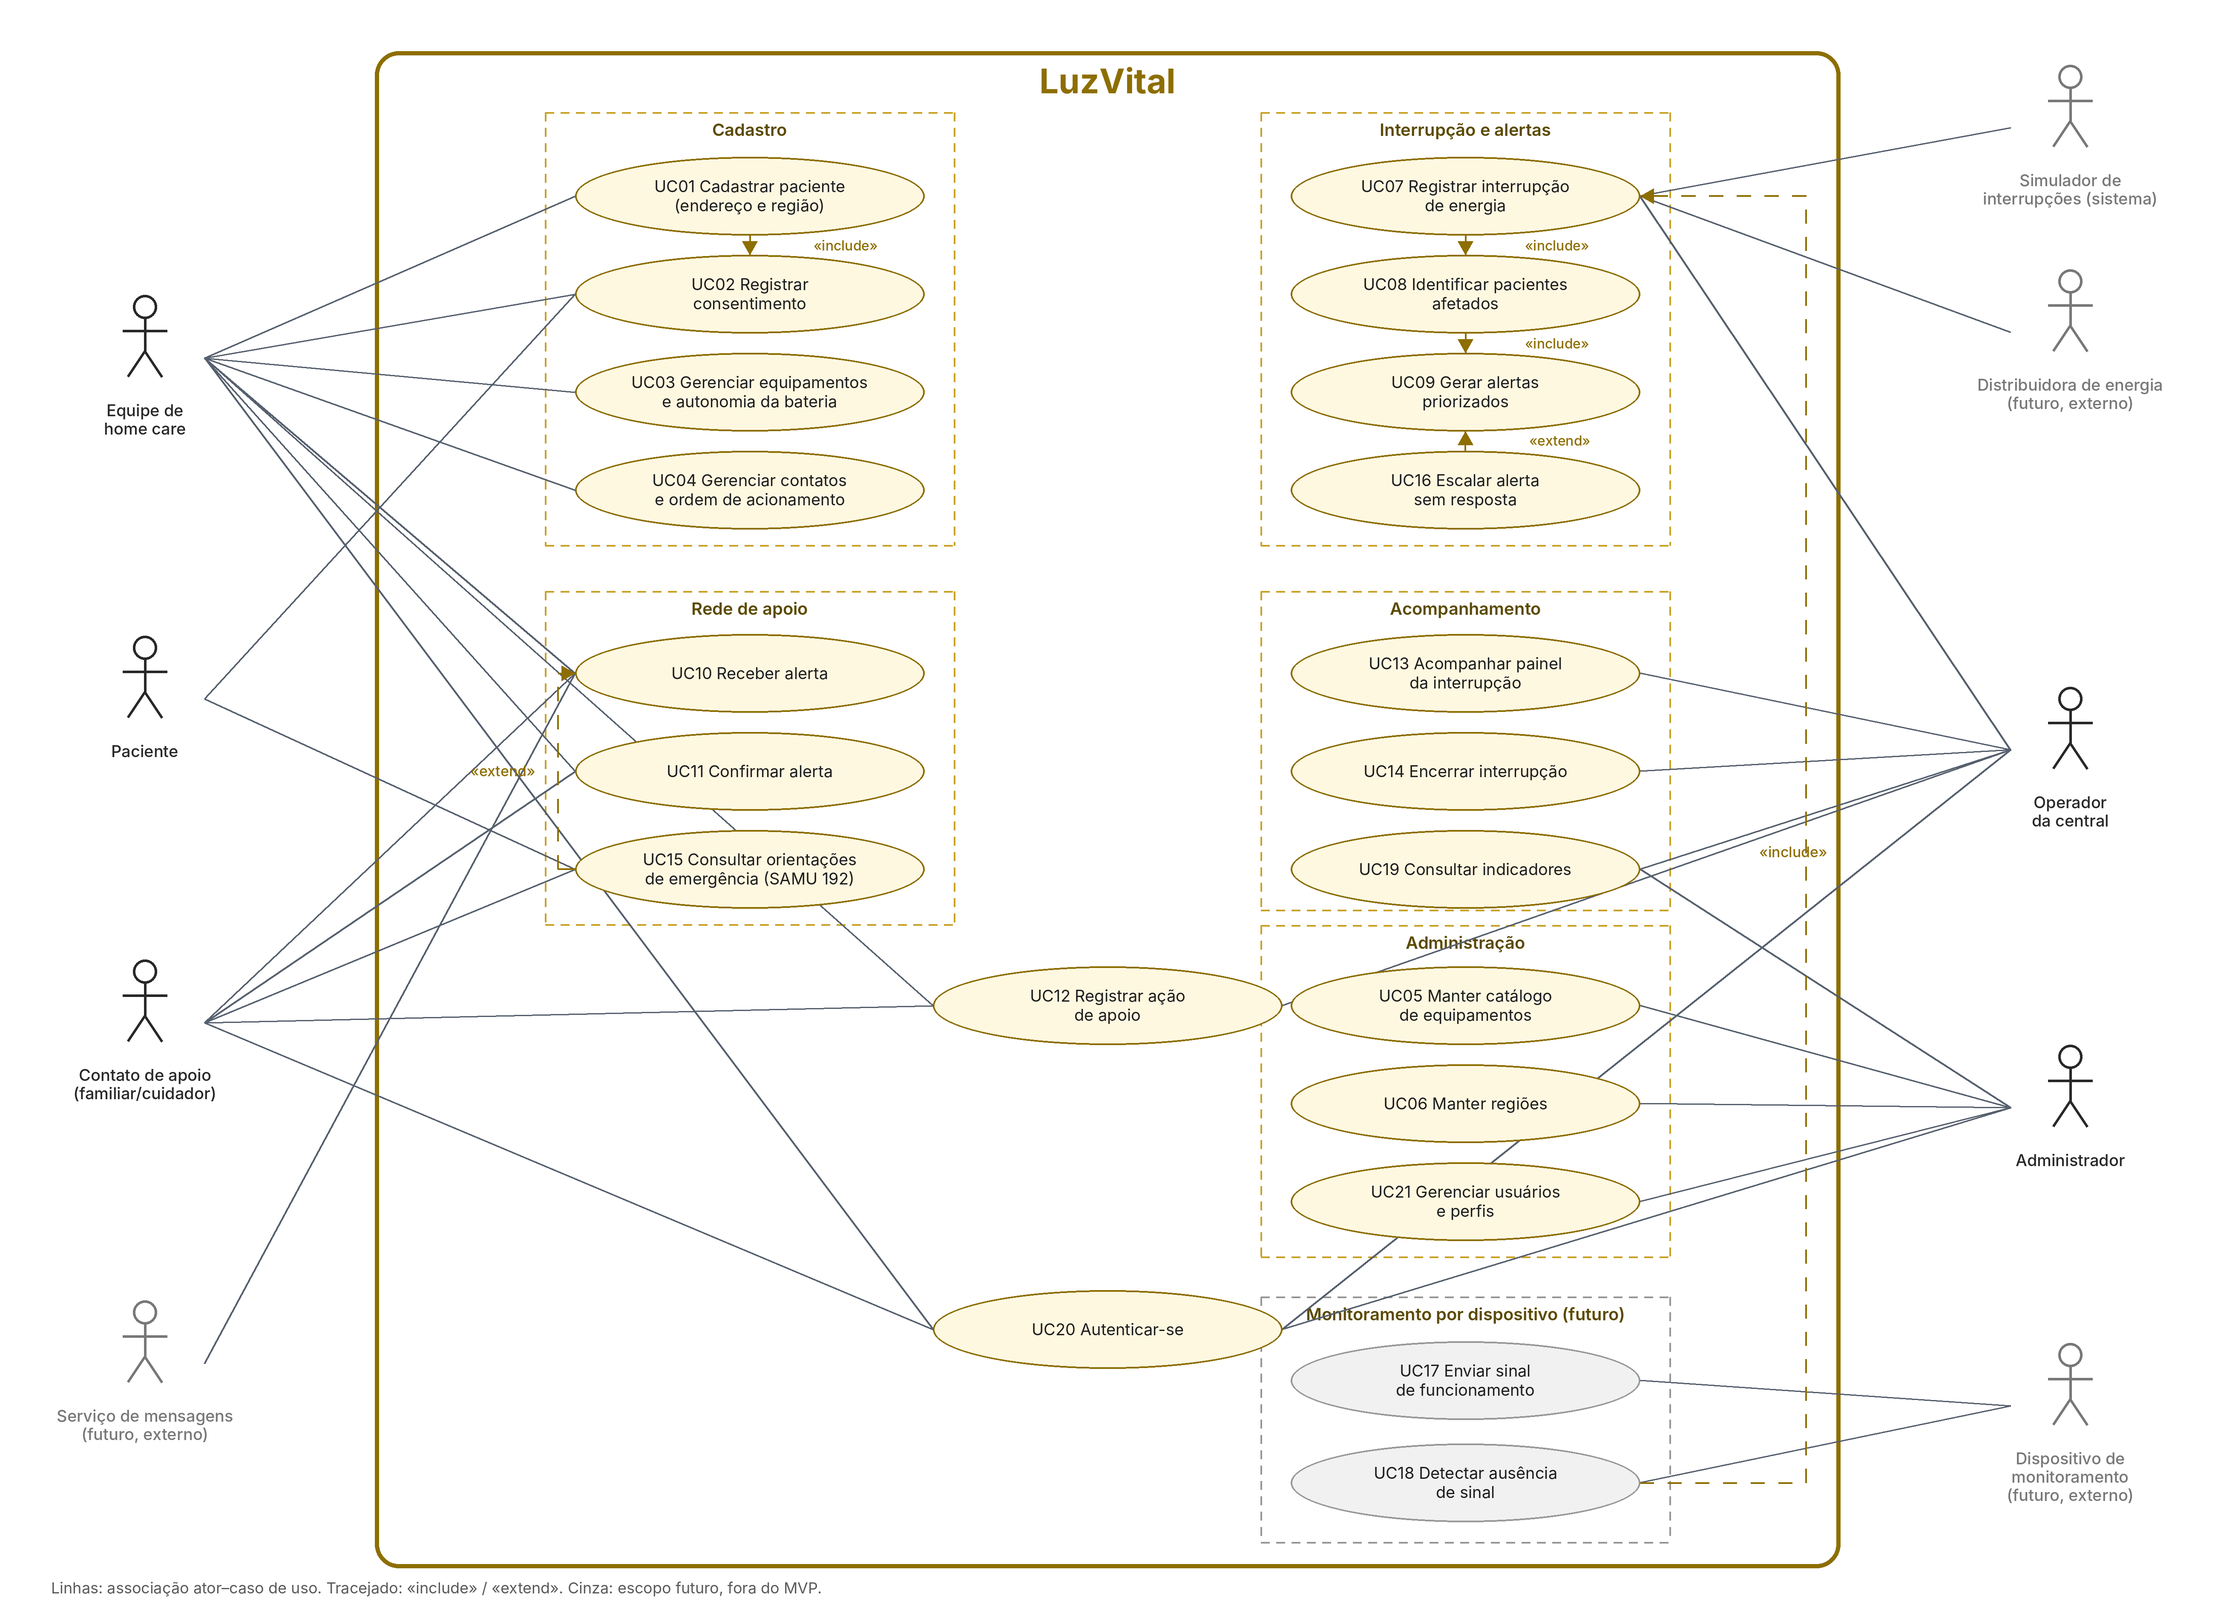
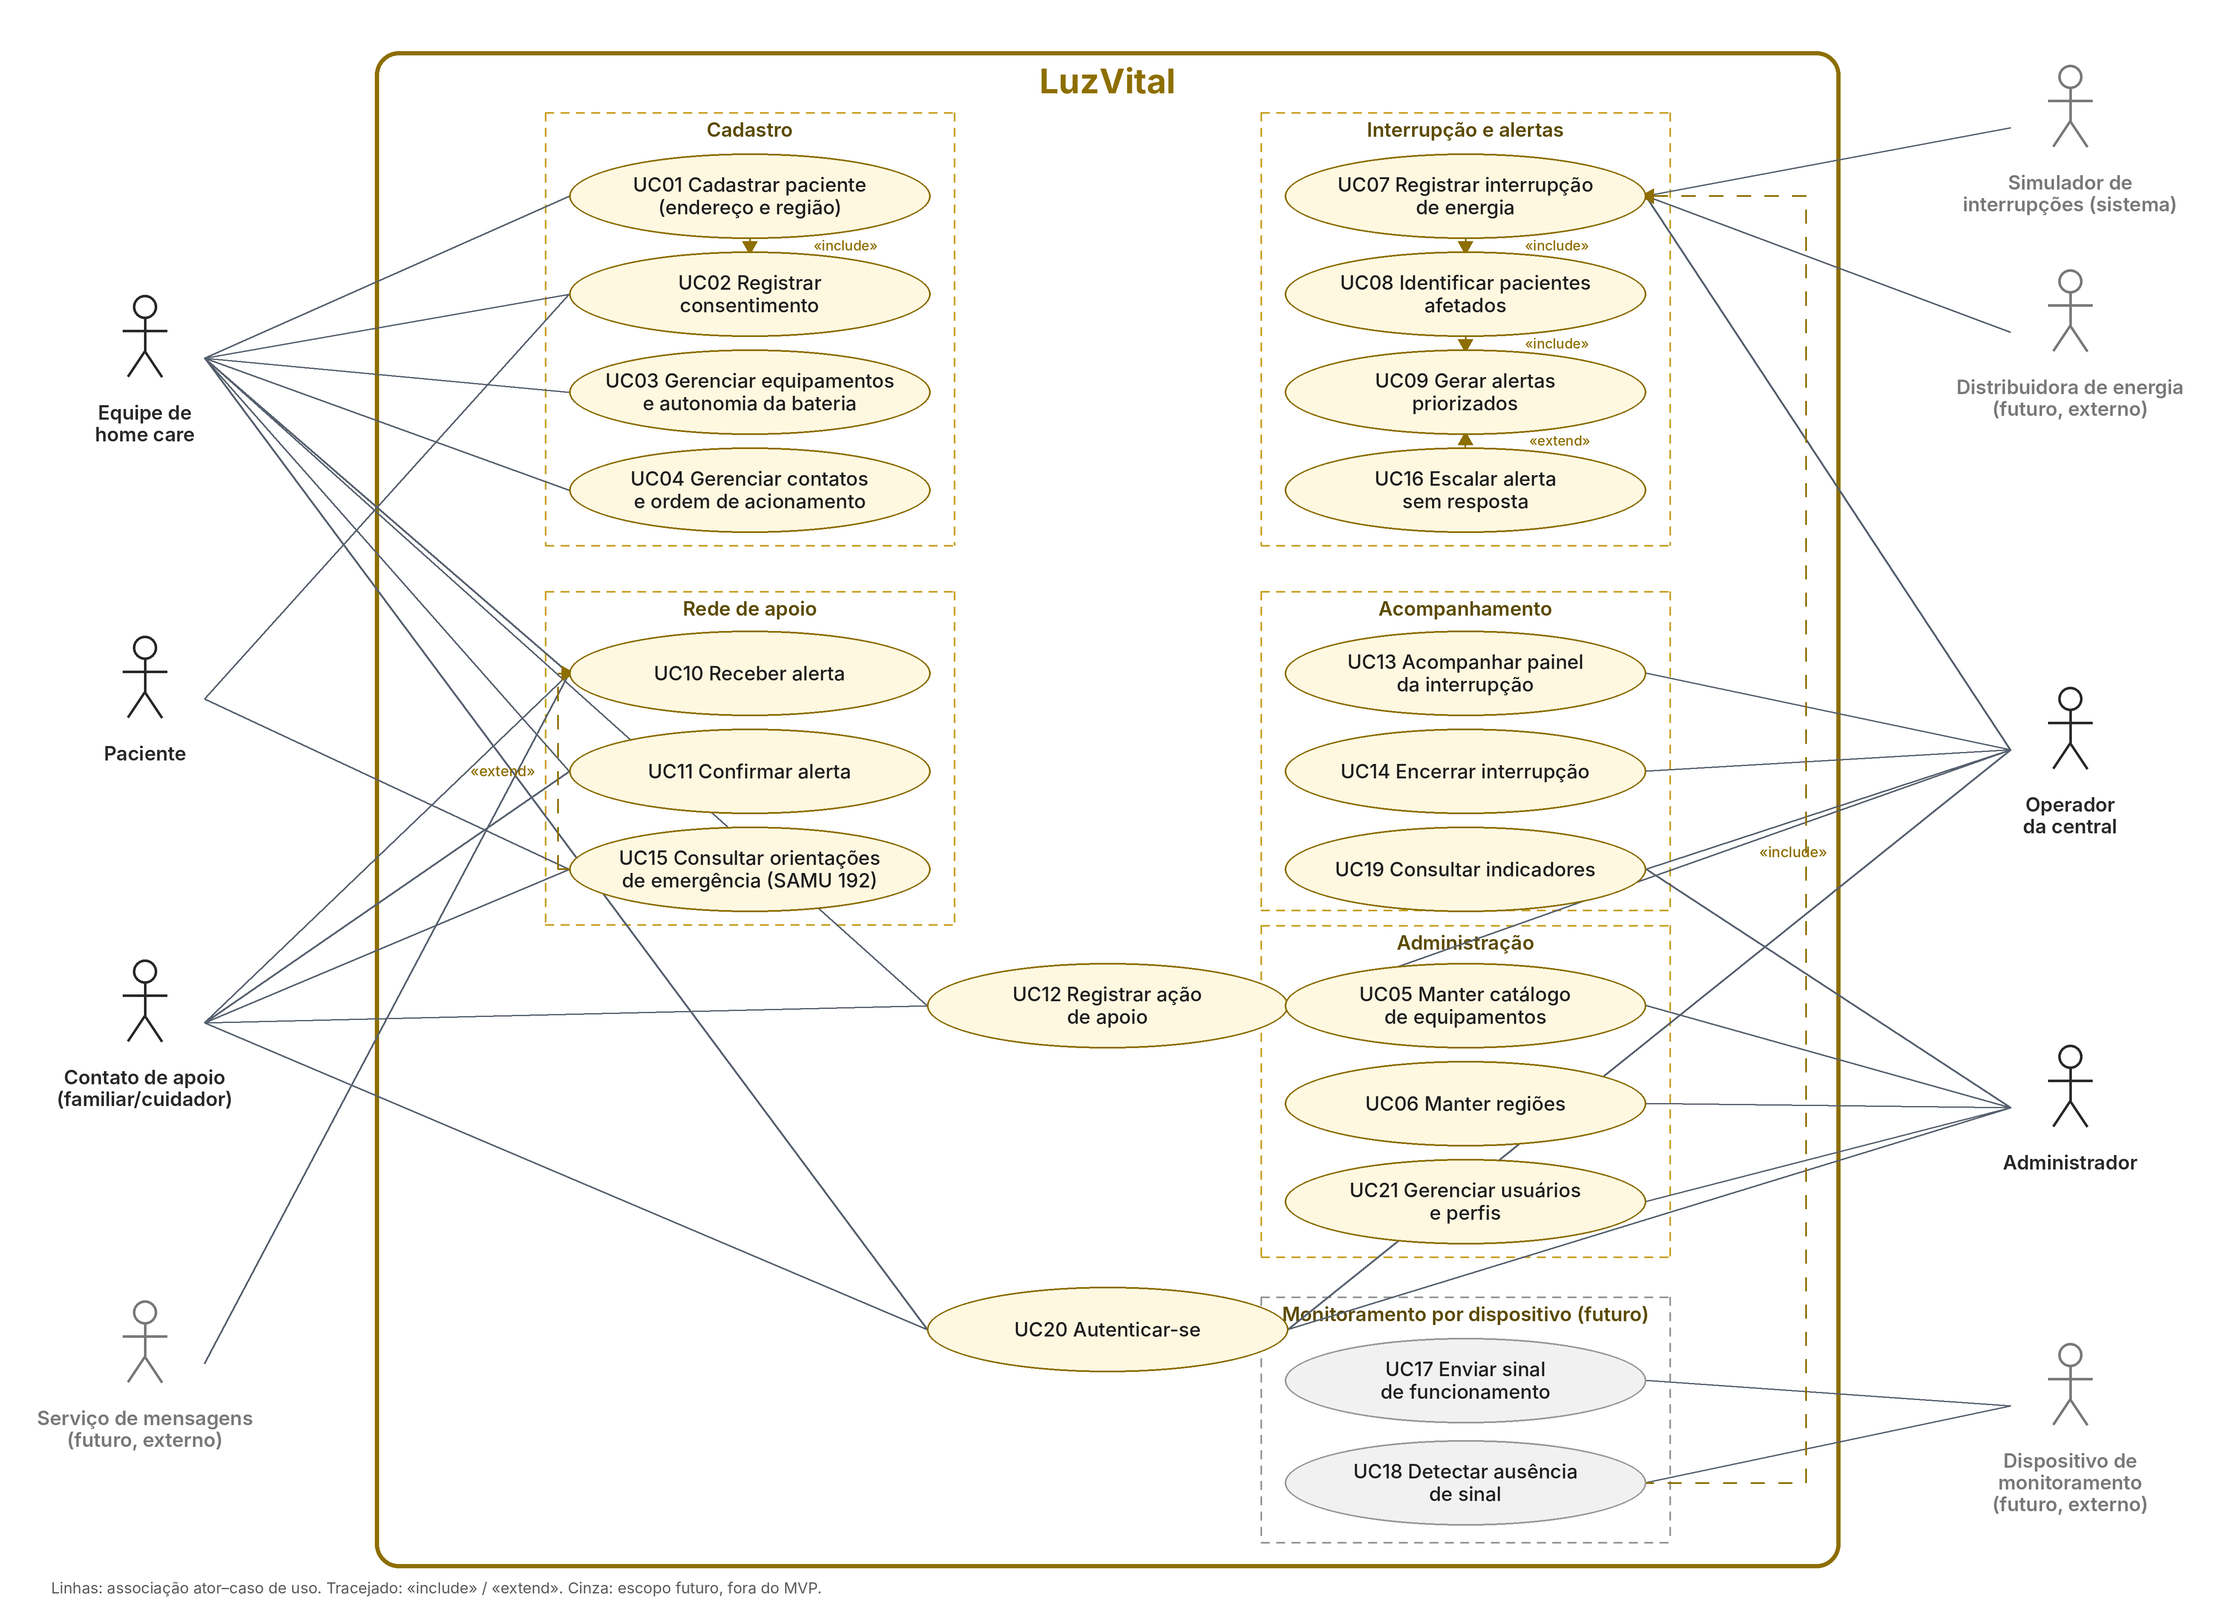
Agile: remove fonte InfoMoney, ajusta personas, diagrama em pé e 'Futuro' no lugar de Won't

diff --git a/docs/diagrams/desenhar_casos_de_uso.py b/docs/diagrams/desenhar_casos_de_uso.py
@@ -67,7 +67,7 @@ LIGA = {
     "Admin": ["UC05", "UC06", "UC19", "UC21", "UC20"],
     "Dispositivo": ["UC17", "UC18"],
 }
-RX, RY = 205, 46
+RX, RY = 212, 50
 
 # moldura do sistema e grupos
 d.rounded_rectangle(s(440, 60, 2160, 1840), 28 * ESC, outline=OURO, width=5 * ESC)
@@ -83,7 +83,7 @@ for nome, x0, y0, x1, y1, fut in GRUPOS:
     for j in range(y0, y1, 18):
         d.line(s(x0, j, x0, min(j + 10, y1)), fill=cor, width=2 * ESC)
         d.line(s(x1, j, x1, min(j + 10, y1)), fill=cor, width=2 * ESC)
-    d.text(s((x0 + x1) // 2, y0 + 20), nome, font=fonte(20, "SemiBold"), fill=(91, 74, 0), anchor="mm")
+    d.text(s((x0 + x1) // 2, y0 + 20), nome, font=fonte(23, "SemiBold"), fill=(91, 74, 0), anchor="mm")
 
 
 def borda_ator(a):
@@ -136,7 +136,7 @@ for (x, y, r) in [(1790, 288, "«include»"), (1790, 403, "«include»"), (1795,
 for u, (t, x, y, fut) in UC.items():
     d.ellipse(s(x - RX, y - RY, x + RX, y + RY), fill=(241, 241, 241) if fut else (255, 248, 225),
               outline=(153, 153, 153) if fut else OURO, width=2 * ESC)
-    d.multiline_text(s(x, y), t, font=fonte(19), fill=(30, 30, 30), anchor="mm", align="center", spacing=4 * ESC)
+    d.multiline_text(s(x, y), t, font=fonte(23, "Medium"), fill=(30, 30, 30), anchor="mm", align="center", spacing=4 * ESC)
 
 # atores (boneco + nome)
 for a, (t, x, y, lado, ext) in ATOR.items():
@@ -147,7 +147,7 @@ for a, (t, x, y, lado, ext) in ATOR.items():
     d.line(s(x - 26, cy - 2, x + 26, cy - 2), fill=k, width=3 * ESC)
     d.line(s(x, cy + 22, x - 20, cy + 52), fill=k, width=3 * ESC)
     d.line(s(x, cy + 22, x + 20, cy + 52), fill=k, width=3 * ESC)
-    d.multiline_text(s(x, y + 50), t, font=fonte(19, "Medium"), fill=k, anchor="ma", align="center", spacing=3 * ESC)
+    d.multiline_text(s(x, y + 50), t, font=fonte(23, "SemiBold"), fill=k, anchor="ma", align="center", spacing=3 * ESC)
 
 d.text(s(60, 1870), "Linhas: associação ator–caso de uso. Tracejado: «include» / «extend». Cinza: escopo futuro, fora do MVP.",
        font=fonte(18), fill=(90, 90, 90), anchor="ls")

diff --git a/disciplines/agile/montar_pdf.py b/disciplines/agile/montar_pdf.py
@@ -34,10 +34,8 @@ def limpar(md: str) -> str:
 
 def html_secao(nome: str) -> str:
     md = limpar((AGILE / nome).read_text(encoding="utf-8"))
-    if nome == "03_CASOS_DE_USO.md":  # diagrama deitado, numa página só, logo depois do título
-        from PIL import Image
-        girado = SAIDA.with_name("_casos_de_uso_girado.png")
-        Image.open(RAIZ / "docs" / "diagrams" / "casos_de_uso.png").rotate(90, expand=True).save(girado)
+    if nome == "03_CASOS_DE_USO.md":  # diagrama em pé, na largura da página, logo depois do título
+        girado = RAIZ / "docs" / "diagrams" / "casos_de_uso.png"
         titulo, resto = md.split("\n", 1)
         corpo = markdown.markdown(resto, extensions=["tables", "sane_lists"])
         return (f'<section class="secao">{markdown.markdown(titulo)}<img class="diagrama" src="{girado.as_uri()}">'
@@ -60,7 +58,7 @@ th, td { border: 1px solid #DCE4F0; padding: 5px 7px; vertical-align: top; }
 tr { break-inside: avoid; }
 img { display: block; max-width: 100%; max-height: 225mm; margin: 10px auto; border: 1px solid #DCE4F0; border-radius: 6px; }
 img[src*="celular"], img[src*="tela_alerta"] { max-width: 62mm; }
-img.diagrama { border: 0; max-height: 228mm; }
+img.diagrama { border: 0; width: 100%; max-height: none; }
 blockquote { margin: 8px 0; padding: 6px 12px; border-left: 4px solid #F2B134; background: #FFF8E1; }
 code { font-size: 8.6pt; background: #F5F8FC; padding: 0 3px; border-radius: 3px; }
 a { color: #155EEF; }
@@ -138,7 +136,6 @@ async def main():
                      margin={"top": "16mm", "bottom": "18mm", "left": "16mm", "right": "16mm"})
         await b.close()
     tmp.unlink()
-    SAIDA.with_name("_casos_de_uso_girado.png").unlink(missing_ok=True)
     print("ok:", SAIDA, "| Planning Poker pendente" if planning_poker_vazio() else "")
 
 

diff --git a/docs/agile/01_IDEIA.md b/docs/agile/01_IDEIA.md
@@ -6,12 +6,12 @@ Item 1 da entrega de Agile Methodology (10 pontos). Fonte de verdade do texto qu
 
 ## 1.1 O problema
 
-Na Grande São Paulo, faltas de energia longas se repetem. Em outubro de 2024, um temporal deixou **3,1 milhões** de unidades sem energia num único dia [1]. Quase dois dias depois, ainda havia moradores sem luz [2]. Em dezembro de 2025, um ciclone extratropical deixou **mais de 2 milhões** de consumidores sem energia por vários dias [3].
+Na Grande São Paulo, faltas de energia longas se repetem. Em outubro de 2024, um temporal deixou **3,1 milhões** de unidades sem energia num único dia [1]. Em dezembro de 2025, um ciclone extratropical deixou **mais de 2 milhões** de consumidores sem energia por vários dias [2].
 
 Para a maioria das pessoas, isso significa desconforto e prejuízo. Para quem **depende de um equipamento elétrico para respirar, se alimentar ou manter um tratamento em casa**, cada hora conta. Alguns casos noticiados:
 
-- Um paciente de 68 anos com doença rara usa cilindro de oxigênio, respirador e sonda de alimentação, todos elétricos. A família teve que comprar um gerador depois de três dias sem energia [4].
-- A filha de uma idosa que depende de aparelhos para respirar contou que a mãe estava no cadastro de "cliente vital" da distribuidora e, mesmo assim, não recebeu nenhum suporte [5].
+- Um paciente de 68 anos com doença rara usa cilindro de oxigênio, respirador e sonda de alimentação, todos elétricos. A família teve que comprar um gerador depois de três dias sem energia [3].
+- A filha de uma idosa que depende de aparelhos para respirar contou que a mãe estava no cadastro de "cliente vital" da distribuidora e, mesmo assim, não recebeu nenhum suporte [4].
 
 **O que observamos:** a falta de energia em si não é o único problema. Também faltam respostas rápidas para três perguntas:
 
@@ -27,7 +27,7 @@ Escolhemos atuar no **intervalo entre "a energia caiu" e "alguém responsável s
 
 | O que **não** é o foco | Por quê |
 |---|---|
-| Restabelecer a energia | É responsabilidade da distribuidora. Ela já mantém um cadastro de clientes vitais com atendimento preferencial [6] |
+| Restabelecer a energia | É responsabilidade da distribuidora. Ela já mantém um cadastro de clientes vitais com atendimento preferencial [5] |
 | Atendimento médico ou triagem | É papel de profissionais de saúde e do SAMU 192. A LuzVital **não** substitui esses serviços |
 | Fornecer equipamentos | Está fora do alcance de um software. A distribuição de kits de bateria aparece como **apoio à decisão** (Dynamic Programming), não como logística real |
 
@@ -42,7 +42,7 @@ Escolhemos atuar no **intervalo entre "a energia caiu" e "alguém responsável s
 | **Equipes de home care** | Usuários que cadastram pacientes e acompanham as ocorrências | Já conhecem os equipamentos e a autonomia de cada paciente |
 | **Operador da central de monitoramento** | Acompanha o painel e coordena as ações | Concentra a visão de todos os afetados |
 
-**Território de referência:** São Paulo, com foco no **Jardim Ângela (Zona Sul)**. Esse bairro foi o mais afetado da capital no desligamento de agosto de 2025 [7]. É um bairro periférico, onde a distância até os serviços aumenta o tempo de resposta. *(Proposta da equipe; os dados do sistema são simulados.)*
+**Território de referência:** São Paulo, com foco no **Jardim Ângela (Zona Sul)**. Esse bairro foi o mais afetado da capital no desligamento de agosto de 2025 [6]. É um bairro periférico, onde a distância até os serviços aumenta o tempo de resposta. *(Proposta da equipe; os dados do sistema são simulados.)*
 
 ## 1.4 A solução
 
@@ -101,11 +101,10 @@ Esses três pontos sustentam as personas (Mariana não sabe quem já está indo;
 ## Fontes
 
 1. eixos — crise de energia em SP após temporal de 11/10/2024: https://eixos.com.br/?p=314604
-2. InfoMoney — 760 mil clientes sem luz, moradores há quase 50 horas sem energia: https://www.infomoney.com.br/?p=2630950
-3. VIVA — "O abandono de quem depende de energia elétrica para viver" (19/12/2025): https://viva.com.br/cidadania-e-direitos/o-abandono-de-quem-depende-de-energia-eletrica-para-viver.html
-4. SBT News — família compra gerador para manter idoso vivo após três dias sem energia: https://sbtnews.sbt.com.br/noticia/brasil/familia-tem-que-comprar-gerador-para-manter-idoso-vivo-apos-tres-dias-sem-energia
-5. Band — "Mulher se revolta com falta de luz em SP" (12/12/2025): https://www.band.com.br/noticias/brasil-urgente/ultimas/mulher-se-revolta-com-falta-de-luz-em-sp-nao-tem-nenhum-suporte-202512121839
-6. VIVA (mesma reportagem do item 3) — resposta da Enel sobre o cadastro de clientes vitais
-7. BandNews FM — desligamento de 28/08/2025, Jardim Ângela como bairro mais afetado: https://www.band.com.br/bandnews-fm/noticias/apagao-sp-202508280636
-8. Documentário "De Volta para Casa (Back Home)" (YouTube), trechos usados com autorização
-9. CPFL Energia / RGE — vídeo "UTI Domiciliar: um projeto que transformou centenas de vidas" (YouTube)
+2. VIVA — "O abandono de quem depende de energia elétrica para viver" (19/12/2025): https://viva.com.br/cidadania-e-direitos/o-abandono-de-quem-depende-de-energia-eletrica-para-viver.html
+3. SBT News — família compra gerador para manter idoso vivo após três dias sem energia: https://sbtnews.sbt.com.br/noticia/brasil/familia-tem-que-comprar-gerador-para-manter-idoso-vivo-apos-tres-dias-sem-energia
+4. Band — "Mulher se revolta com falta de luz em SP" (12/12/2025): https://www.band.com.br/noticias/brasil-urgente/ultimas/mulher-se-revolta-com-falta-de-luz-em-sp-nao-tem-nenhum-suporte-202512121839
+5. VIVA (mesma reportagem do item 2) — resposta da Enel sobre o cadastro de clientes vitais
+6. BandNews FM — desligamento de 28/08/2025, Jardim Ângela como bairro mais afetado: https://www.band.com.br/bandnews-fm/noticias/apagao-sp-202508280636
+7. Documentário "De Volta para Casa (Back Home)" (YouTube), trechos usados com autorização
+8. CPFL Energia / RGE — vídeo "UTI Domiciliar: um projeto que transformou centenas de vidas" (YouTube)

diff --git a/docs/agile/04_BACKLOG.md b/docs/agile/04_BACKLOG.md
@@ -67,7 +67,7 @@ Story Points medem **esforço relativo** (complexidade, volume e incerteza), nã
 | US19 | **Como** usuário, **quero** entrar com login e ver só o que meu perfil permite, **para** proteger os dados dos pacientes | UC20, UC21 | **8** |
 | US20 | **Como** contato de apoio, **quero** receber o alerta por SMS ou WhatsApp, **para** ser avisado mesmo sem abrir o sistema | UC10 | **8** |
 
-### Won't (nesta GS — visão futura)
+### Futuro
 
 | ID | História | UC | Por que não agora |
 |---|---|---|---|
@@ -102,7 +102,7 @@ Story Points medem **esforço relativo** (complexidade, volume e incerteza), nã
 | US19 | Login e perfis | 8 | **8** | Autenticação e autorização em todas as rotas |
 | US20 | Alerta por SMS ou WhatsApp | 8 | **8** | Integração externa, custo e cadastro no provedor |
 
-Histórias Won't (US21 a US23) não foram estimadas, porque dependem de hardware ou de acordos externos.
+Histórias futuras (US21 a US23) não foram estimadas, porque dependem de hardware ou de acordos externos.
 
 ## 4.4 Rastreabilidade
 

diff --git a/docs/agile/03_CASOS_DE_USO.md b/docs/agile/03_CASOS_DE_USO.md
@@ -39,8 +39,8 @@ Item 3 da entrega de Agile Methodology (20 pontos). Representa o **escopo total*
 | UC14 | Encerrar interrupção | Operador | **MVP** |
 | UC15 | Consultar orientações de emergência (SAMU 192) | Paciente, Contato de apoio | Should (estende UC10) |
 | UC16 | Escalar alerta sem resposta para o próximo contato | (estende UC09) | Could |
-| UC17 | Enviar sinal de funcionamento | Dispositivo de monitoramento | Futuro (Won't nesta GS) |
-| UC18 | Detectar ausência de sinal | (sistema; inclui UC07) | Futuro (Won't nesta GS) |
+| UC17 | Enviar sinal de funcionamento | Dispositivo de monitoramento | Futuro |
+| UC18 | Detectar ausência de sinal | (sistema; inclui UC07) | Futuro |
 | UC19 | Consultar indicadores (tempo até confirmação) | Operador, Administrador | Could |
 | UC20 | Autenticar-se | Todos os atores humanos, exceto o Paciente | Could |
 | UC21 | Gerenciar usuários e perfis | Administrador | Could |

diff --git a/docs/agile/02_PERSONAS.md b/docs/agile/02_PERSONAS.md
@@ -2,7 +2,7 @@
 
 Item 2 da entrega de Agile Methodology (10 pontos).
 
-> As personas são **fictícias**. Foram construídas a partir de situações relatadas em reportagens públicas (ver `01_IDEIA.md`, fontes 3 a 5) e devem ser ajustadas depois da conversa com uma pessoa real.
+> As personas são **fictícias**. Foram construídas a partir de situações relatadas em reportagens públicas.
 
 Cada persona corresponde a um ator do diagrama de casos de uso:
 
